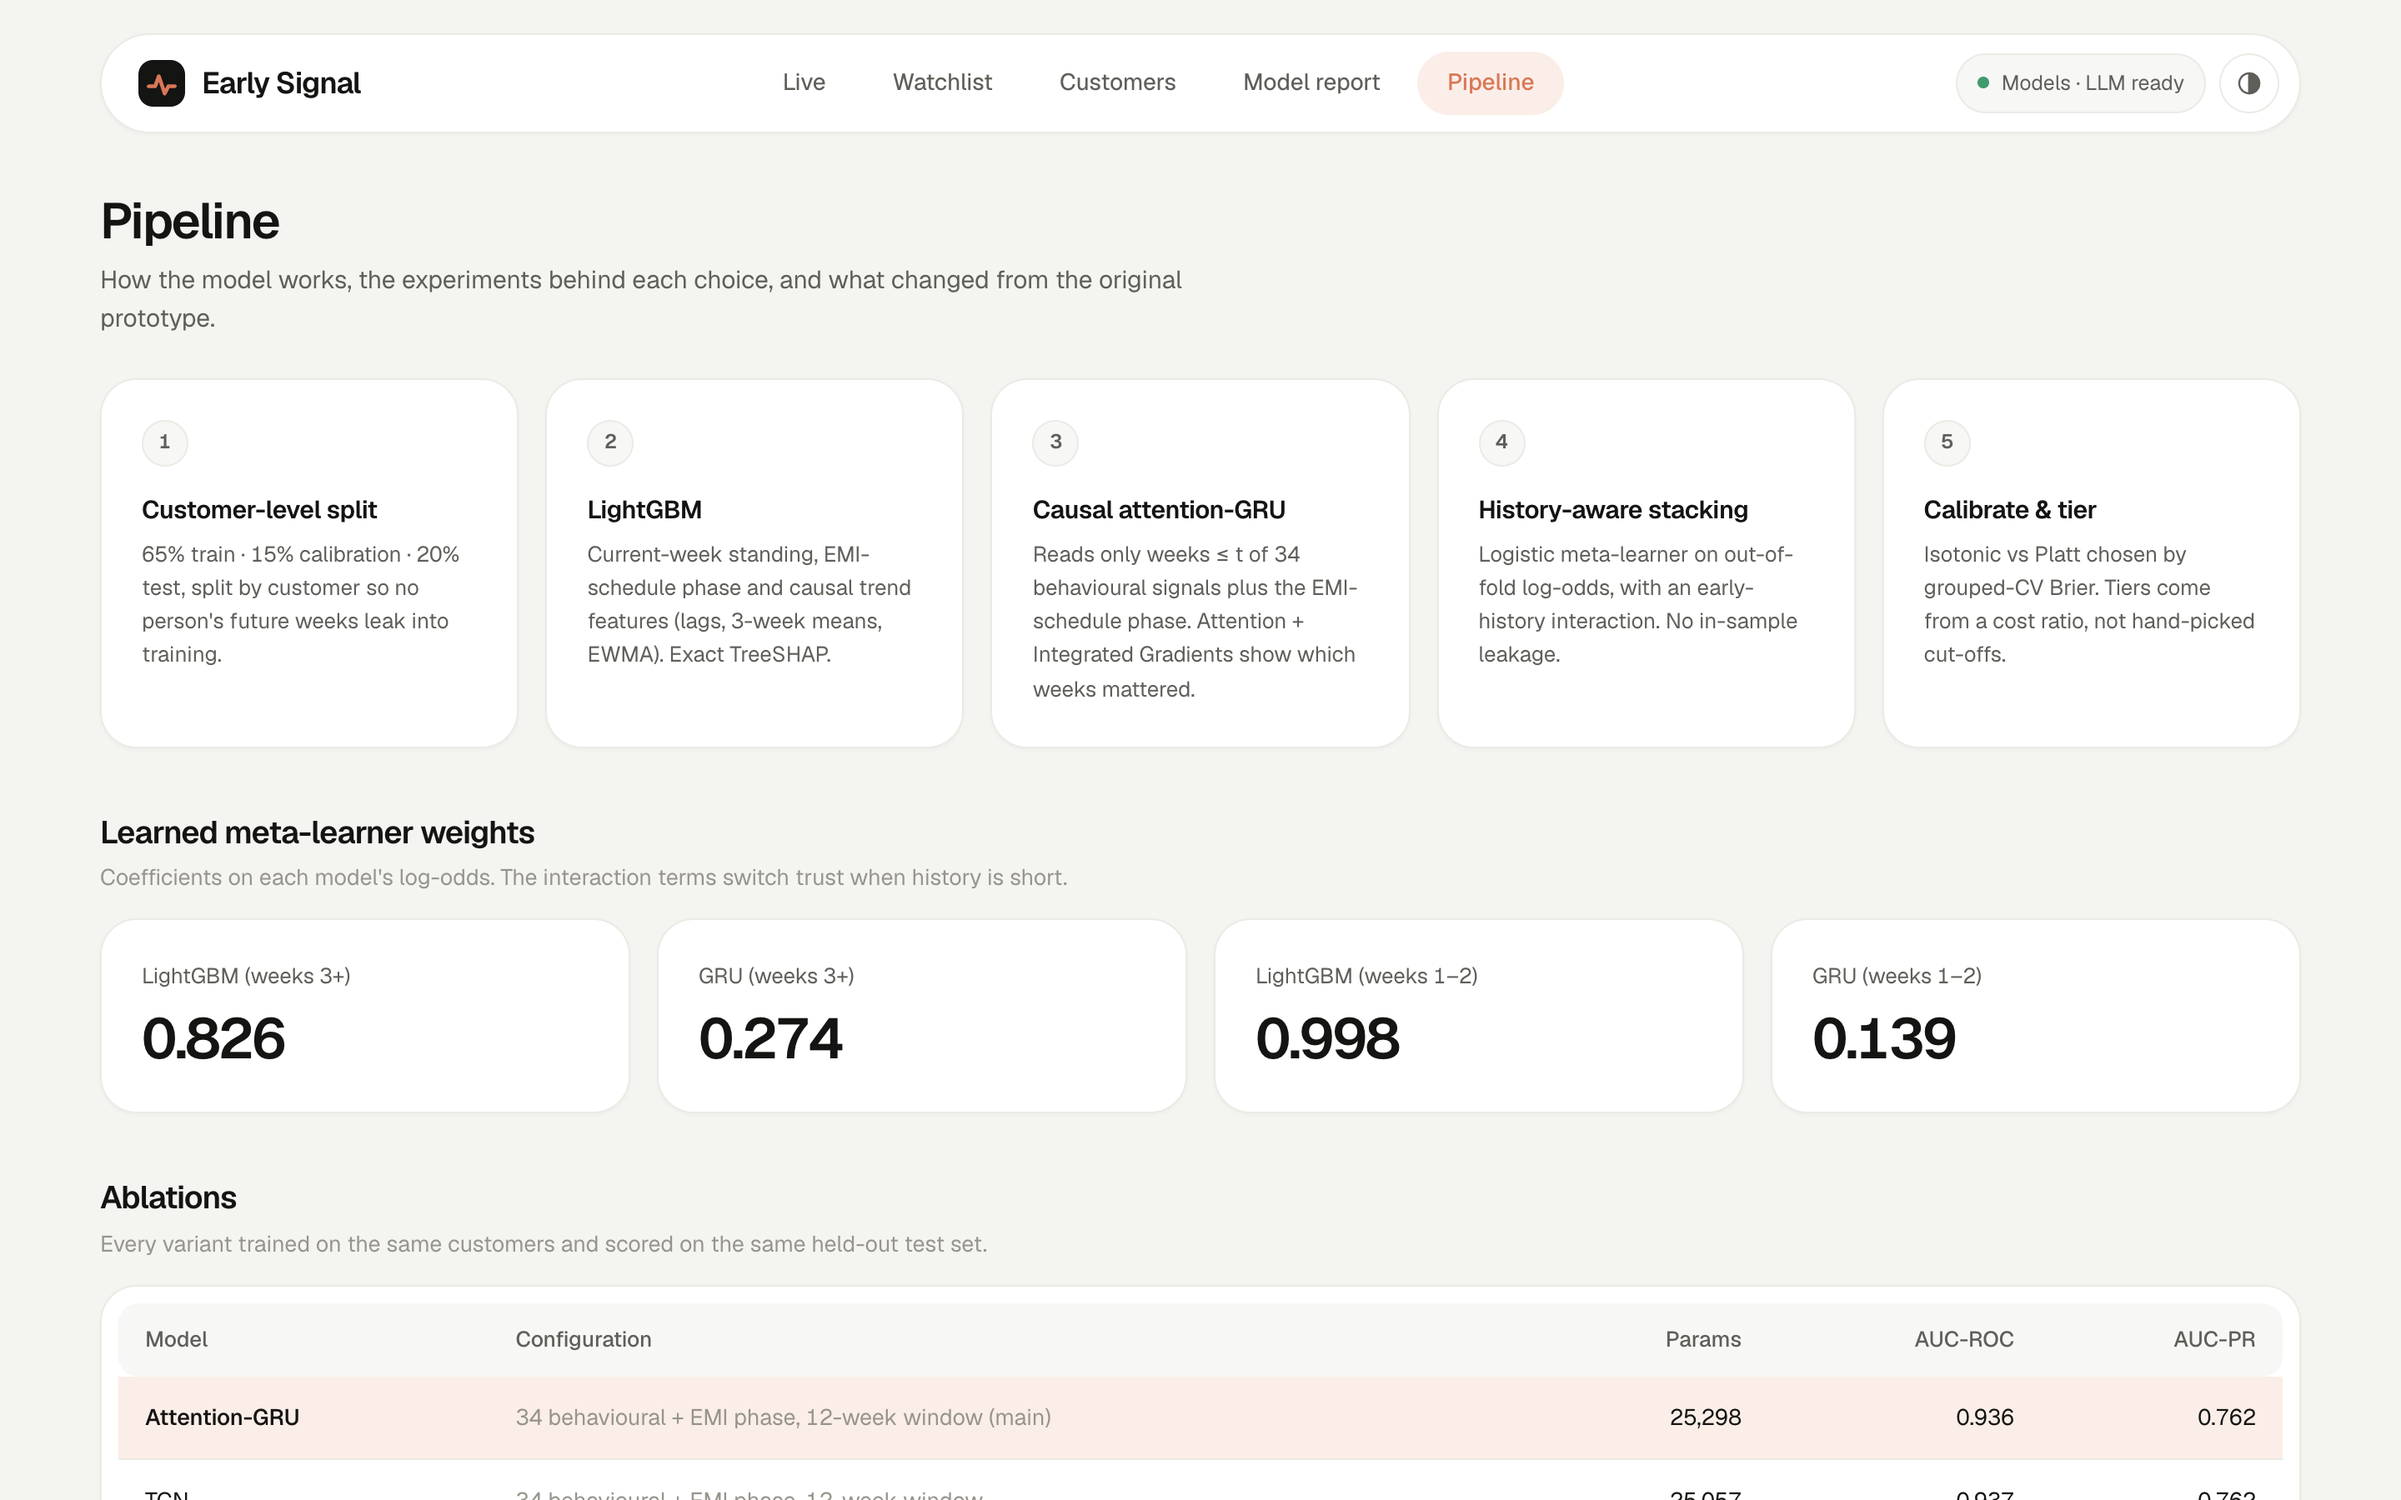
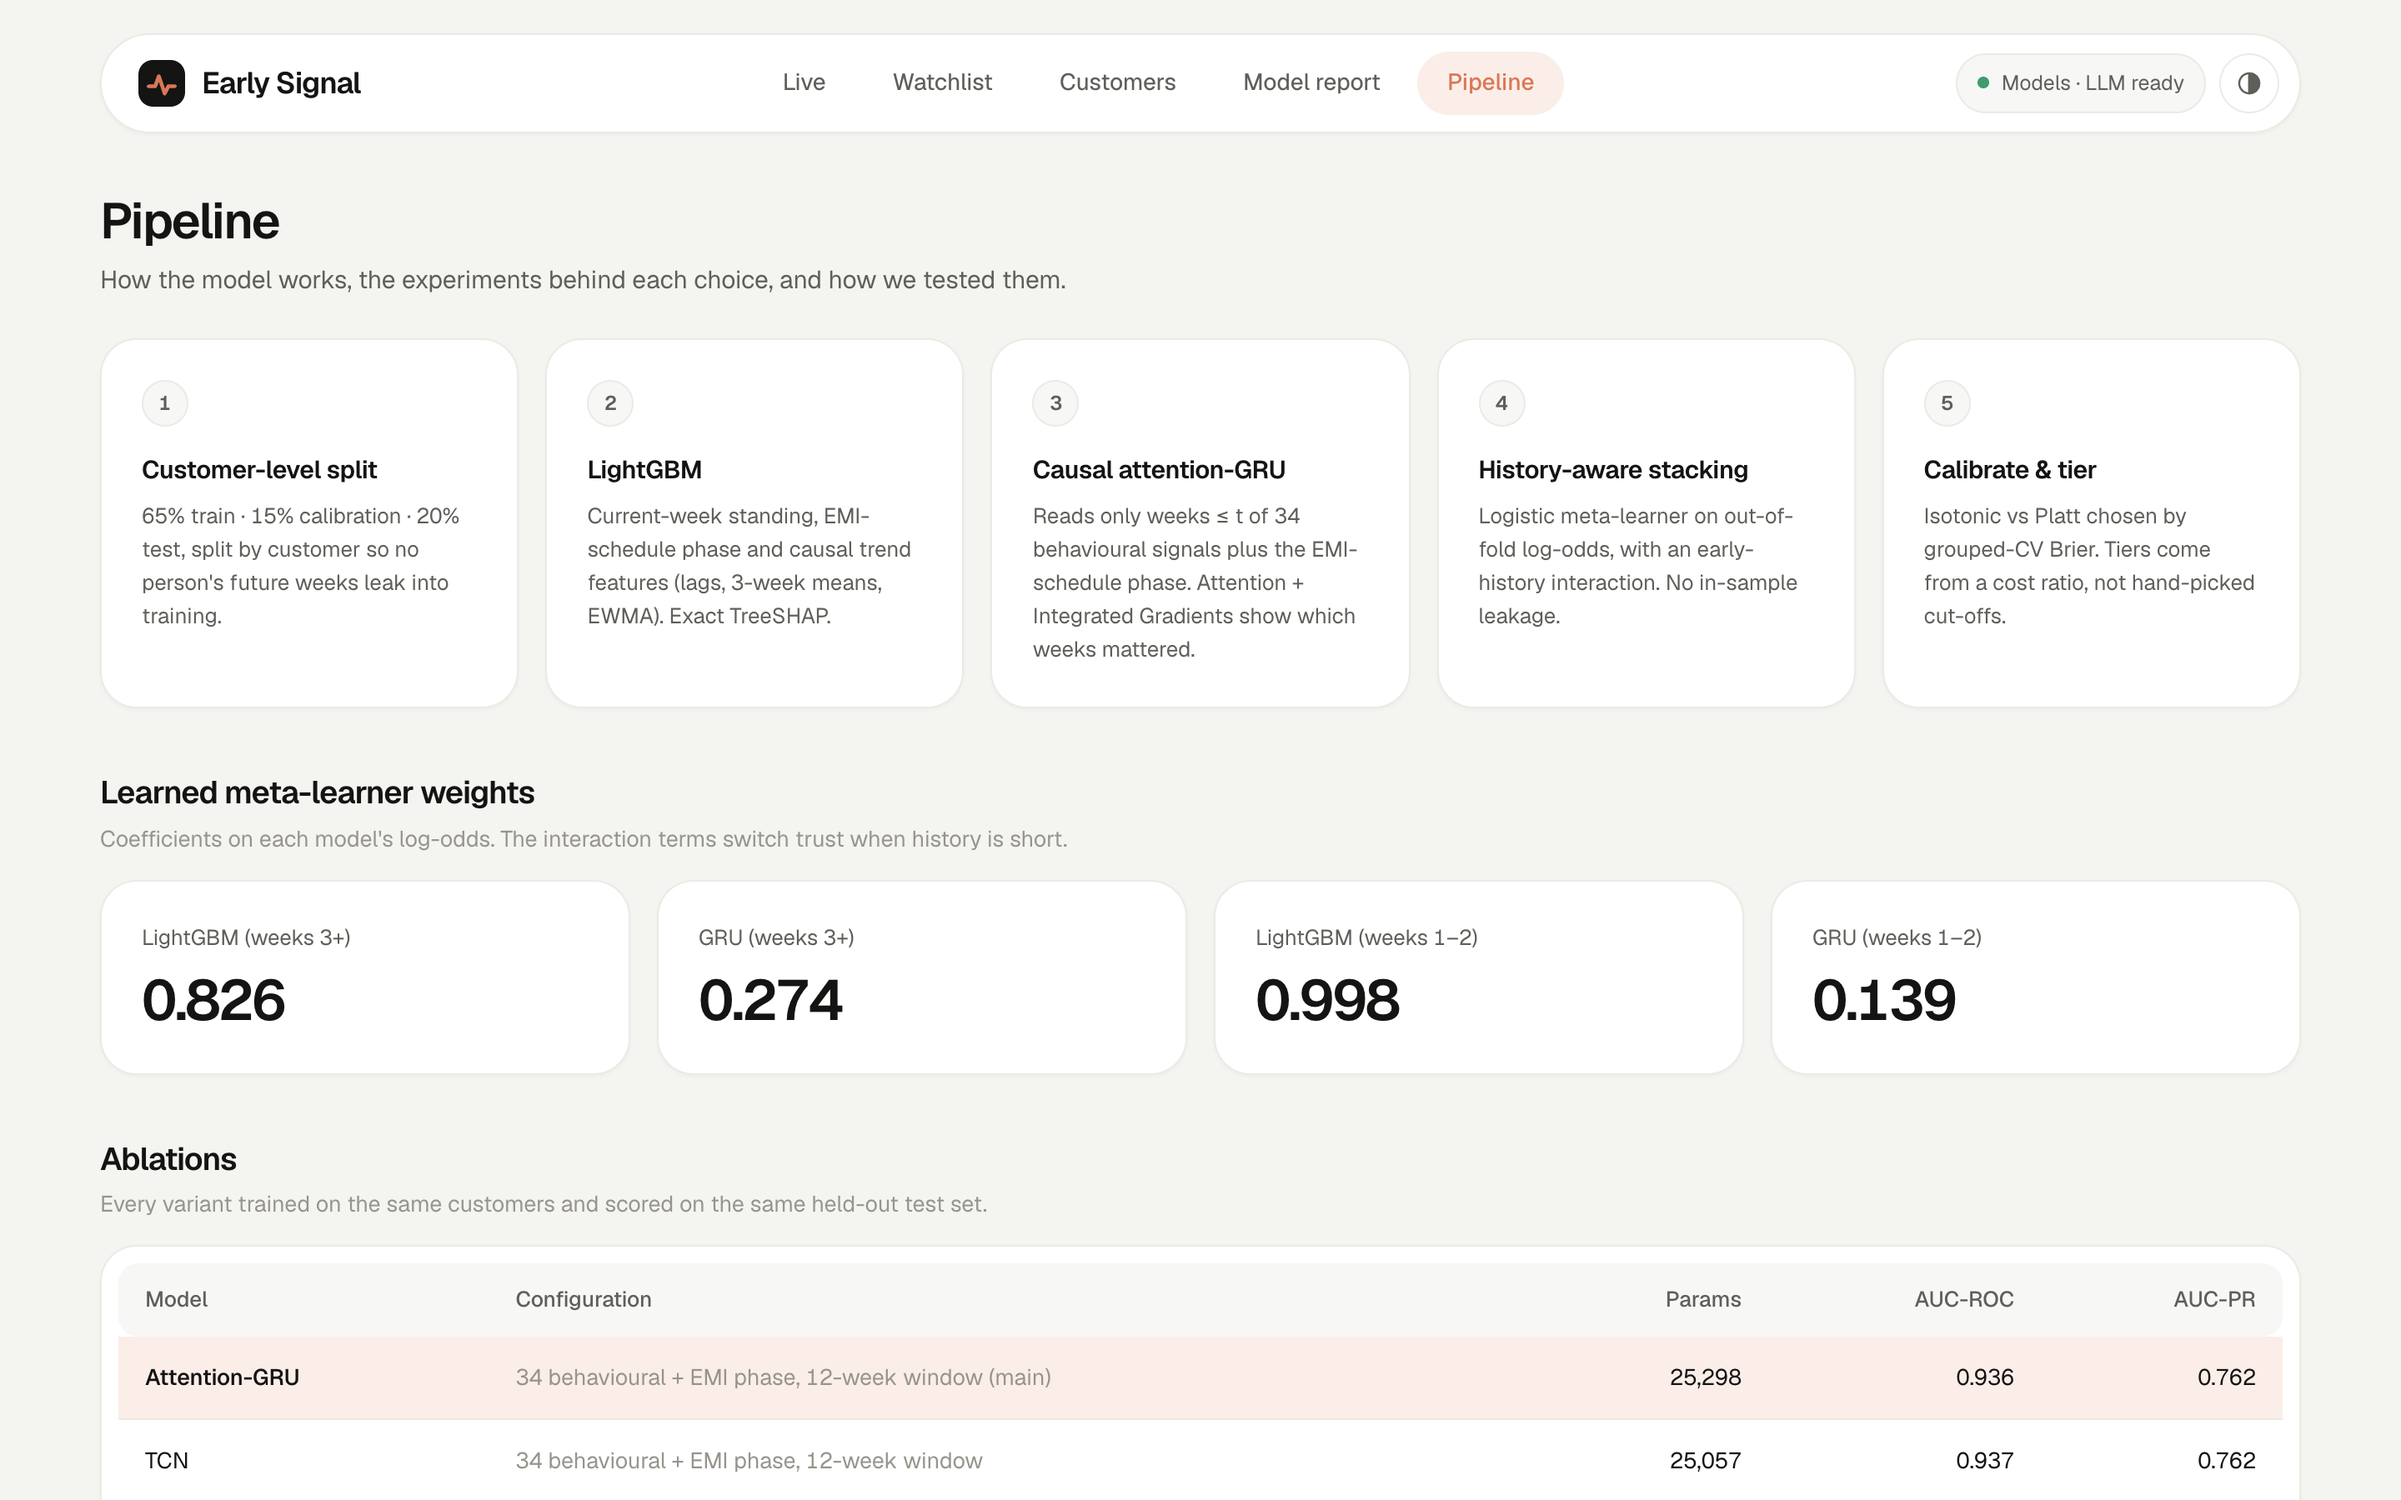
Replace the prototype comparison with a design-choices table
Rename the fixed 0.6/0.4 average to "baseline" in the report, the UI
and the training script. Retake the screenshots.

diff --git a/frontend/src/pages/Pipeline.tsx b/frontend/src/pages/Pipeline.tsx
@@ -30,7 +30,7 @@ export default function Pipeline() {
       <div className="page-head">
         <div>
           <h1>Pipeline</h1>
-          <p className="lede">How the model works, the experiments behind each choice, and what changed from the original prototype.</p>
+          <p className="lede">How the model works, the experiments behind each choice, and how we tested them.</p>
         </div>
       </div>
 
@@ -75,7 +75,7 @@ export default function Pipeline() {
       <Section title="Rule pre-filter vs model cascade" sub="Does gating customers before the ensemble cost us real defaulters?">
         <div className="grid g2">
           <div className="card">
-            <h3>Rule-based gate (original design)</h3>
+            <h3>Rule-based gate</h3>
             <div className="grid g2" style={{ gap: 10 }}>
               <div><div className="stat-label">Scoring saved</div><div className="stat-value">{pf.compute_saved_pct.toFixed(1)}%</div></div>
               <div><div className="stat-label">Defaulters silently dropped</div><div className="stat-value down">{pf.defaulters_dropped}</div><div className="stat-sub">{(100 - pf.defaulters_kept_pct).toFixed(2)}% of all defaulters</div></div>

diff --git a/frontend/src/pages/Overview.tsx b/frontend/src/pages/Overview.tsx
@@ -50,7 +50,7 @@ export default function Overview() {
       </div>
 
       <div className="grid g4">
-        <Stat label="AUC-ROC" value={f3(fin.auc_roc)} sub={<>original deck reported 0.871</>} />
+        <Stat label="AUC-ROC" value={f3(fin.auc_roc)} sub={<>final stacked + calibrated model</>} />
         <Stat label="AUC-PR" value={f3(fin.auc_pr)} sub={<>base rate {pct(m.data.positive_rate)}</>} />
         <Stat label={`Recall @ ${fin.threshold.toFixed(2)}`} value={pct(fin.recall)} sub={<>precision {pct(fin.precision)}</>} />
         <Stat label="Median lead time" value={`${m.lead_time.median_weeks} wks`} sub={<>before first bounced / missed EMI</>} />

diff --git a/scripts/train.py b/scripts/train.py
@@ -169,12 +169,12 @@ def main():
 
     # ---------------------------------------------------- headline results
     yt = y[te]
-    naive = 0.6 * pl_te + 0.4 * pg_te  # the original repo's fixed-weight heuristic
+    naive = 0.6 * pl_te + 0.4 * pg_te  # fixed-weight baseline
     results = {
         "LightGBM (raw features)": None,
         "LightGBM (+ trend features)": metrics.summary(yt, pl_te, thr_action),
         "Attention-GRU (causal)": metrics.summary(yt, pg_te, thr_action),
-        "Fixed 0.6/0.4 average (original)": metrics.summary(yt, naive, thr_action),
+        "Fixed 0.6/0.4 average (baseline)": metrics.summary(yt, naive, thr_action),
         "Stacked, plain meta-learner": metrics.summary(yt, s_te_plain, thr_action),
         "Stacked, history-aware (uncalibrated)": metrics.summary(yt, s_te, thr_action),
         "Stacked + isotonic": metrics.summary(yt, iso_only.predict(s_te), thr_action),
@@ -277,7 +277,7 @@ def main():
         sc8 = features.SeqScaler(C.VELOCITY_8).fit(df[is_["train"]])
         X8, M8, _, _ = features.build_windows(df, sc8, C.SEQ_LEN)
         m8 = fit_seq(split["train"], X=X8, M=M8, tag=" (velocity-8)")
-        eval_seq(m8, X8, M8, "Attention-GRU", "original 8 velocity features, 12-week window")
+        eval_seq(m8, X8, M8, "Attention-GRU", "8 velocity features only, 12-week window")
         del X8, M8
         ablations.append({"model": "LightGBM", "detail": "trend features, no EMI phase", "params": None,
                           "auc_roc": float(roc_auc_score(yt, p_lgb_ns)), "auc_pr": float(average_precision_score(yt, p_lgb_ns))})

diff --git a/src/ews/inference.py b/src/ews/inference.py
@@ -155,8 +155,8 @@ class Scorer:
                           "op": op, "threshold": thr, "fired": bool(fired)})
         fired_names = [r["rule"] for r in rules if r["fired"]]
         step("prefilter", "Early-warning rules",
-             f"{len(prefilter.RULES)} RBI-style early-warning rules are checked. In the original design customers with no "
-             "rule fired were skipped; here every customer is still scored and the gate is only reported.",
+             f"{len(prefilter.RULES)} RBI-style early-warning rules are checked. A hard gate would skip customers with no "
+             "rule fired; here every customer is still scored and the gate is only reported.",
              {"rules": rules, "fired": len(fired_names), "gate": "route" if fired_names else "would skip"},
              status="flag" if fired_names else "ok")
 

diff --git a/src/ews/config.py b/src/ews/config.py
@@ -23,7 +23,7 @@ STATIC_NUM_COLS = [
     "emi_amount_inr",
 ]
 
-# The 8 engineered velocity / EMI-event features used by the original GRU.
+# The 8 engineered velocity / EMI-event features (the small-input GRU ablation).
 VELOCITY_8 = [
     "balance_velocity",
     "salary_delay_delta",

diff --git a/README.md b/README.md
@@ -63,7 +63,7 @@ without a key). Every scored record and every human decision is appended to `log
 |---|---|---|---|---|
 | LightGBM (raw features) | 0.940 | 0.781 | 0.0585 | 0.0054 |
 | Attention-GRU (causal) | 0.936 | 0.762 | 0.0630 | 0.0101 |
-| Fixed 0.6 / 0.4 average (original design) | 0.940 | 0.779 | 0.0593 | 0.0125 |
+| Fixed 0.6 / 0.4 average (baseline) | 0.940 | 0.779 | 0.0593 | 0.0125 |
 | **Final: history-aware stack + Platt** | **0.941** | **0.781** | **0.0585** | **0.0039** |
 
 - **Recall 89.5%, precision 72.2%** at the cost-optimal action threshold (0.167).
@@ -72,17 +72,16 @@ without a key). Every scored record and every human decision is appended to `log
 
 Plots are in `reports/figures/`. Every number is in `reports/metrics.json`.
 
-## What changed from the original prototype (HoH)
+## Design choices
 
-| Original | Now | Why |
-|---|---|---|
-| No training code, only pickled models | `scripts/train.py` reproduces everything | Results must be reproducible |
-| GRU fed a 12-week window for every row | Causal windows: the row for week *t* sees only weeks ≤ *t* | Otherwise the model reads future weeks |
-| Fixed `0.6·lgb + 0.4·gru`, calibrator bypassed at inference | Logistic meta-learner on **out-of-fold** log-odds, with an early-history interaction; calibrator actually applied | Learned, leak-free fusion |
-| Thresholds 0.50 / 0.75 picked by hand | Medium = C_FP/(C_FP+C_FN) with FN costing 5× FP; High = precision ≥ 80% on the calibration split | Thresholds tied to a stated cost |
-| GRU "SHAP" was a raw gradient | Integrated Gradients + attention per week; TreeSHAP for LightGBM; both merged in final log-odds space | Explanations that add up |
-| Rule pre-filter assumed safe | Audited: it **drops 164 of 4,356 real defaulters (3.8%)** to save 27% of scoring | Measured trade-off; a LightGBM-screen cascade is offered instead (28% fewer GRU calls, 39 dropped, still scored) |
-| Kafka, Cassandra, Postgres, Redis, voice agent | Removed | Out of scope for the ML evaluation |
+| Choice | Why |
+|---|---|
+| `scripts/train.py` trains and evaluates everything from the raw CSV | Every result can be reproduced |
+| Causal windows: the row for week *t* sees only weeks ≤ *t* | The model must never read future weeks |
+| Logistic meta-learner on **out-of-fold** log-odds, with an early-history interaction, then calibration | Learned, leak-free fusion. It beats a fixed `0.6·lgb + 0.4·gru` baseline on calibration |
+| Medium = C_FP/(C_FP+C_FN) with a missed default costing 5× a false alarm; High = precision ≥ 80% on the calibration split | Thresholds come from a stated cost, not from hand-picked cut-offs |
+| Integrated Gradients + attention per week for the GRU, TreeSHAP for LightGBM, merged in final log-odds space | Explanations that add up to the score |
+| The rule pre-filter is audited, not trusted: it **drops 164 of 4,356 real defaulters (3.8%)** to save 27% of scoring | A LightGBM-screen cascade is used instead: 28% fewer GRU calls, 39 screened out, and they still get a score |
 
 ### Findings worth presenting
 
@@ -99,7 +98,7 @@ Plots are in `reports/figures/`. Every number is in `reports/metrics.json`.
 | Attention-GRU without EMI phase | 0.933 | 0.754 |
 | Attention-GRU, 4-week window | 0.935 | 0.762 |
 | Attention-GRU, 8-week window | 0.936 | 0.761 |
-| Attention-GRU, original 8 velocity features | 0.927 | 0.727 |
+| Attention-GRU, 8 velocity features only | 0.927 | 0.727 |
 
 ## Run it
 
